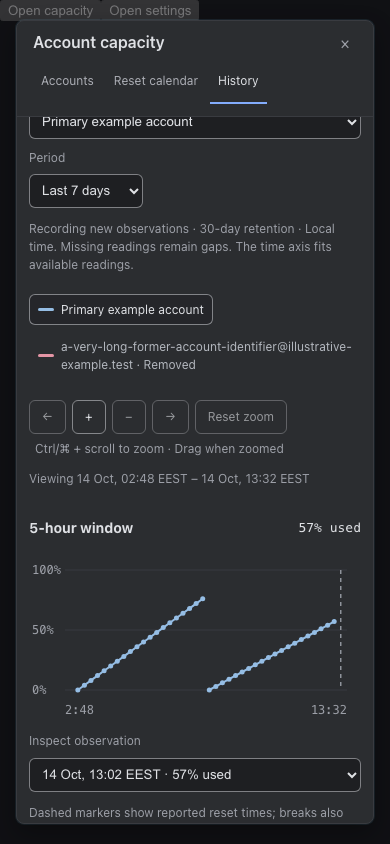
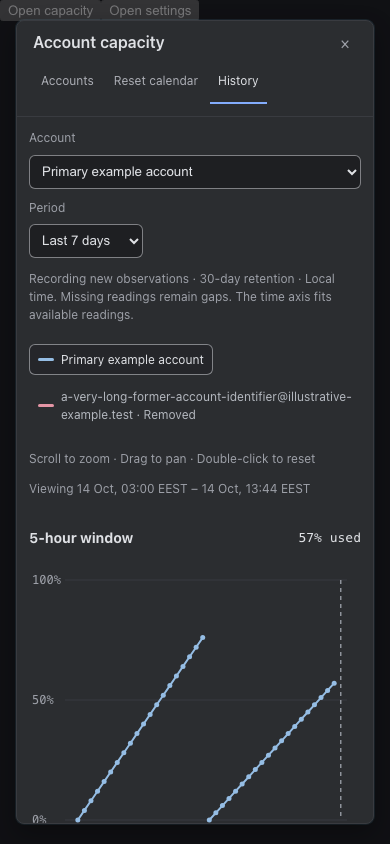
feat: navigate taller charts directly
Enlarge usage plots, identify accounts on line hover and replace the zoom toolbar with direct wheel, drag and double-click gestures. This makes history easier to inspect while retaining keyboard navigation and browser zoom shortcuts.

diff --git a/src/web/components/AccountHistoryView.tsx b/src/web/components/AccountHistoryView.tsx
@@ -20,6 +20,7 @@ function HistoryChart({
   zoomed,
   onZoom,
   onPan,
+  onReset,
 }: {
   accounts: (SnapshotAccount & { color: string })[];
   window: "five_hour" | "seven_day";
@@ -28,6 +29,7 @@ function HistoryChart({
   zoomed: boolean;
   onZoom: (factor: number, anchor?: number) => void;
   onPan: (delta: number) => void;
+  onReset: () => void;
 }) {
   const chartRef = useRef<SVGSVGElement>(null);
   const clipId = useId();
@@ -46,8 +48,11 @@ function HistoryChart({
     const svg = chartRef.current;
     if (!svg) return;
     const wheel = (event: WheelEvent) => {
-      if (!(event.ctrlKey || event.metaKey)) return;
       event.preventDefault();
+      if (Math.abs(event.deltaX) > Math.abs(event.deltaY)) {
+        onPan((event.deltaX / svg.clientWidth) * (end - start));
+        return;
+      }
       const rect = svg.getBoundingClientRect();
       const anchor = Math.max(
         0,
@@ -60,7 +65,7 @@ function HistoryChart({
     };
     svg.addEventListener("wheel", wheel, { passive: false });
     return () => svg.removeEventListener("wheel", wheel);
-  }, [onZoom]);
+  }, [onZoom, onPan, start, end]);
   const [selected, setSelected] = useState<string | null>(null);
   const values = accounts
     .flatMap((a) =>
@@ -73,7 +78,7 @@ function HistoryChart({
   const w = p?.[window];
   const visibleAccounts = new Set(values.map((p) => p.account.id)).size;
   const x = (t: number) => 36 + ((t - start) / (end - start)) * (width - 50);
-  const y = (pct: number) => 140 - pct * 1.2;
+  const y = (pct: number) => 260 - pct * 2.4;
   return (
     <section
       className="ah-chart"
@@ -91,9 +96,27 @@ function HistoryChart({
       </header>
       <svg
         ref={chartRef}
-        viewBox={`0 0 ${width} 170`}
-        role="img"
-        aria-label="Reported usage from 0 to 100 percent. Gaps indicate missing observations; separate lines indicate changed reset windows."
+        viewBox={`0 0 ${width} 290`}
+        role="group"
+        tabIndex={0}
+        aria-label={`${window === "five_hour" ? "5-hour" : "7-day"} interactive usage chart. Scroll to zoom, drag to pan, double-click to reset. Keyboard: plus or minus to zoom, left or right arrows to pan, zero to reset. Gaps indicate missing observations or changed reset windows.`}
+        onDoubleClick={onReset}
+        onKeyDown={(e) => {
+          if (e.ctrlKey || e.metaKey || e.altKey) return;
+          if (e.key === "+" || e.key === "=") {
+            e.preventDefault();
+            onZoom(0.5);
+          } else if (e.key === "-" || e.key === "_") {
+            e.preventDefault();
+            onZoom(2);
+          } else if (e.key === "ArrowLeft" || e.key === "ArrowRight") {
+            e.preventDefault();
+            onPan((end - start) * (e.key === "ArrowLeft" ? -0.5 : 0.5));
+          } else if (e.key === "0" || e.key === "Home") {
+            e.preventDefault();
+            onReset();
+          }
+        }}
         className={zoomed ? "ah-plot ah-plot-zoomed" : "ah-plot"}
         onPointerDown={(e) => {
           if (!zoomed || e.button !== 0) return;
@@ -121,7 +144,7 @@ function HistoryChart({
       >
         <defs>
           <clipPath id={clipId}>
-            <rect x="36" y="16" width={width - 50} height="128" />
+            <rect x="36" y="16" width={width - 50} height="248" />
           </clipPath>
         </defs>
         {[0, 50, 100].map((v) => (
@@ -154,7 +177,7 @@ function HistoryChart({
             x1={x(t * 1000)}
             x2={x(t * 1000)}
             y1="20"
-            y2="140"
+            y2="260"
             className="ah-reset"
           >
             <title>Reported reset {stamp(t * 1000)}</title>
@@ -168,7 +191,19 @@ function HistoryChart({
                   points={s.map((p) => `${x(p.t)},${y(p.pct)}`).join(" ")}
                   className="ah-line"
                   style={{ stroke: a.color }}
-                />
+                >
+                  <title>{a.name}</title>
+                </polyline>
+                <path
+                  d={s
+                    .map(
+                      (p, index) => `${index ? "L" : "M"}${x(p.t)},${y(p.pct)}`,
+                    )
+                    .join(" ")}
+                  className="ah-line-hit"
+                >
+                  <title>{a.name}</title>
+                </path>
                 {s.map((p) => (
                   <circle
                     key={p.t}
@@ -187,10 +222,10 @@ function HistoryChart({
             ))}
           </g>
         ))}
-        <text x="36" y="164">
+        <text x="36" y="284">
           {formatHistoryAxis(start, start, end)}
         </text>
-        <text x={width - 14} y="164" textAnchor="end">
+        <text x={width - 14} y="284" textAnchor="end">
           {formatHistoryAxis(end, start, end)}
         </text>
       </svg>
@@ -421,59 +456,9 @@ export default function AccountHistoryView() {
             </div>
           ) : (
             <>
-              <div
-                className="ah-explore"
-                role="group"
-                aria-label="History chart navigation"
-              >
-                <button
-                  type="button"
-                  className="btn"
-                  aria-label="Earlier observations"
-                  disabled={!zoomed || start <= full.start + 1}
-                  onClick={() => pan(-(end - start) * 0.5)}
-                >
-                  ←
-                </button>
-                <button
-                  type="button"
-                  className="btn"
-                  aria-label="Zoom in"
-                  disabled={end - start <= 5 * 60_000 + 1}
-                  onClick={() => zoom(0.5)}
-                >
-                  +
-                </button>
-                <button
-                  type="button"
-                  className="btn"
-                  aria-label="Zoom out"
-                  disabled={!zoomed}
-                  onClick={() => zoom(2)}
-                >
-                  −
-                </button>
-                <button
-                  type="button"
-                  className="btn"
-                  aria-label="Later observations"
-                  disabled={!zoomed || end >= full.end - 1}
-                  onClick={() => pan((end - start) * 0.5)}
-                >
-                  →
-                </button>
-                <button
-                  type="button"
-                  className="btn"
-                  disabled={!zoomed}
-                  onClick={() => setViewport(null)}
-                >
-                  Reset zoom
-                </button>
-                <span className="ah-note">
-                  Ctrl/⌘ + scroll to zoom · Drag when zoomed
-                </span>
-              </div>
+              <p className="ah-note">
+                Scroll to zoom · Drag to pan · Double-click to reset
+              </p>
               <p className="ah-note" role="status">
                 Viewing {stamp(start)} – {stamp(end)}
               </p>
@@ -485,6 +470,7 @@ export default function AccountHistoryView() {
                 zoomed={zoomed}
                 onZoom={zoom}
                 onPan={pan}
+                onReset={() => setViewport(null)}
               />
               <HistoryChart
                 accounts={series}
@@ -494,6 +480,7 @@ export default function AccountHistoryView() {
                 zoomed={zoomed}
                 onZoom={zoom}
                 onPan={pan}
+                onReset={() => setViewport(null)}
               />
             </>
           )}

diff --git a/src/web/components/account-history.css b/src/web/components/account-history.css
@@ -57,7 +57,7 @@
 .ah-chart svg {
   display: block;
   width: 100%;
-  height: 170px;
+  height: 290px;
   margin: 12px 0;
   overflow: visible;
 }
@@ -79,6 +79,12 @@
 }
 .ah-dot {
   fill: var(--accent);
+}
+.ah-line-hit {
+  fill: none;
+  stroke: transparent;
+  stroke-width: 12;
+  pointer-events: stroke;
 }
 .ah-note {
   color: var(--text-dim);
@@ -197,24 +203,6 @@
   border-radius: 2px;
 }
 
-.ah-explore {
-  display: flex;
-  align-items: center;
-  flex-wrap: wrap;
-  gap: 6px;
-  margin-top: 12px;
-}
-.ah-explore .btn {
-  min-width: 34px;
-  min-height: 34px;
-}
-.ah-explore .btn:focus-visible {
-  outline: 2px solid var(--accent);
-  outline-offset: 2px;
-}
-.ah-explore .ah-note {
-  margin-left: 6px;
-}
 .ah-plot {
   user-select: none;
 }
@@ -224,4 +212,10 @@
 }
 .ah-plot-zoomed:active {
   cursor: grabbing;
+}
+
+.ah-plot:focus-visible {
+  outline: 2px solid var(--accent);
+  outline-offset: 2px;
+  border-radius: 4px;
 }

diff --git a/docs/features/account-usage-history-2104.md b/docs/features/account-usage-history-2104.md
@@ -53,6 +53,8 @@ Browser checks cover the default combined series, legend filtering/restoration, 
 
 The time axis fits available readings within the selected lookback. Short histories display local times; a single observation is centered with viewing padding. Subsecond precision changes in reported reset times do not split otherwise continuous lines, while missing readings and real cycle changes remain breaks.
 
-Both windows share zoom and pan. Use +/−, earlier/later arrows and Reset zoom, or Ctrl/Meta + wheel and drag when zoomed. Ordinary wheel scrolling still scrolls the modal. The visible range is bounded to available history, has a five-minute minimum and resets on account/period changes. No chart dependency was added. Clipping preserves original data and the observation selector lists actual readings in the visible interval.
+Both windows share zoom and pan. Scroll inside a plot to zoom around the pointer, drag when zoomed to pan, and double-click to reset. Horizontal trackpad scrolling pans. Scrolling outside the plots still scrolls the modal. The plots are keyboard-focusable: +/− zoom, left/right arrows pan, and 0 or Home resets. The visible range is bounded to available history, has a five-minute minimum and resets on account/period changes. No chart dependency was added. Clipping preserves original data and the observation selector lists actual readings in the visible interval.
 
-Latest checks: 32 focused Vitest tests passed, TypeScript passed, production build passed, and browser interaction checks passed (keyboard zoom, synchronized axes, pan, modified/ordinary wheel, drag without text selection and reset, plus existing workflows). Updated renders include `zoomed.png`. Independent scoped review found no material issue. Native touch and full screen-reader verification remain follow-ups.
+Latest checks: 32 focused Vitest tests passed, TypeScript passed, production build passed, and browser interaction checks passed (keyboard zoom/reset, synchronized axes, pan, wheel zoom, drag without text selection, double-click reset, account hover hit-testing and 290px plot height, plus existing workflows). Updated renders include `zoomed.png`. Independent scoped review found no material issue. Native touch and full screen-reader verification remain follow-ups.
+
+Owner refinement: plots are 290px high (240px data area). Line hover identifies the account using SVG titles and a transparent 12px hit target; point hover retains exact observation details. The visible zoom toolbar was removed in favor of direct gestures and keyboard equivalents.

diff --git a/.impeccable/surfaces/account-usage-history.md b/.impeccable/surfaces/account-usage-history.md
@@ -55,3 +55,9 @@ Regression coverage checks subsecond jitter, cumulative drift, unknown transitio
 Both existing SVG charts share an absolute-time viewport. Keyboard-operable buttons zoom in/out, move earlier/later and reset to available history. Ctrl/Meta + wheel zooms around the pointer; ordinary scrolling continues to scroll the modal. Dragging a zoomed plot pans with pointer capture; axis text is not selectable. Zoom is bounded to the available extent and a five-minute minimum, with no new dependency or provider requests. Account, legend and period changes reset the view. Refresh keeps the chosen absolute range where available and clamps it when the domain changes.
 
 Series are clipped to the plot area without changing raw points or interpolating new observations. Inspect observation lists and account counts refer to observations within the visible interval; both charts retain aligned axes. The visible local-time range is announced and empty zoomed ranges explain that no readings exist there. Desktop, zoomed and mobile renders were inspected, including a fix for accidental text selection during drag. Browser checks cover keyboard zoom, synchronized axes, button pan, modified wheel, normal scrolling, drag and reset in addition to existing workflows. Ten axis/navigation unit tests and 22 snapshot tests passed. Native touch gestures and screen-reader sessions remain unverified; the explicit buttons provide an alternative to pointer gestures.
+
+## Direct plot interaction (supersedes the preceding toolbar)
+
+The owner requested taller graphs and interaction entirely inside the plot. Graphs now have 290px total height and a 240px data area. Wheel zoom needs no modifier; horizontal wheel pans, pointer drag pans while zoomed and double-click resets both windows. The visible button toolbar is removed. Focusable, labeled chart groups retain keyboard equivalents (+/−, left/right, 0/Home), with focus-visible styling. Scrolling outside the plots remains modal scrolling.
+
+Account names appear in SVG titles on lines, with a transparent 12px path for forgiving hit-testing; point titles preserve observation details. Browser assertions verify real line hit-testing, titles, height, direct wheel zoom, keyboard and pointer navigation, shared axes and double-click reset. Thirty-two focused tests, TypeScript, production build and browser verification passed. Updated default and zoomed desktop renders were inspected. Native tooltip appearance/delay, touch hardware and full screen-reader behavior were not visually verified.
